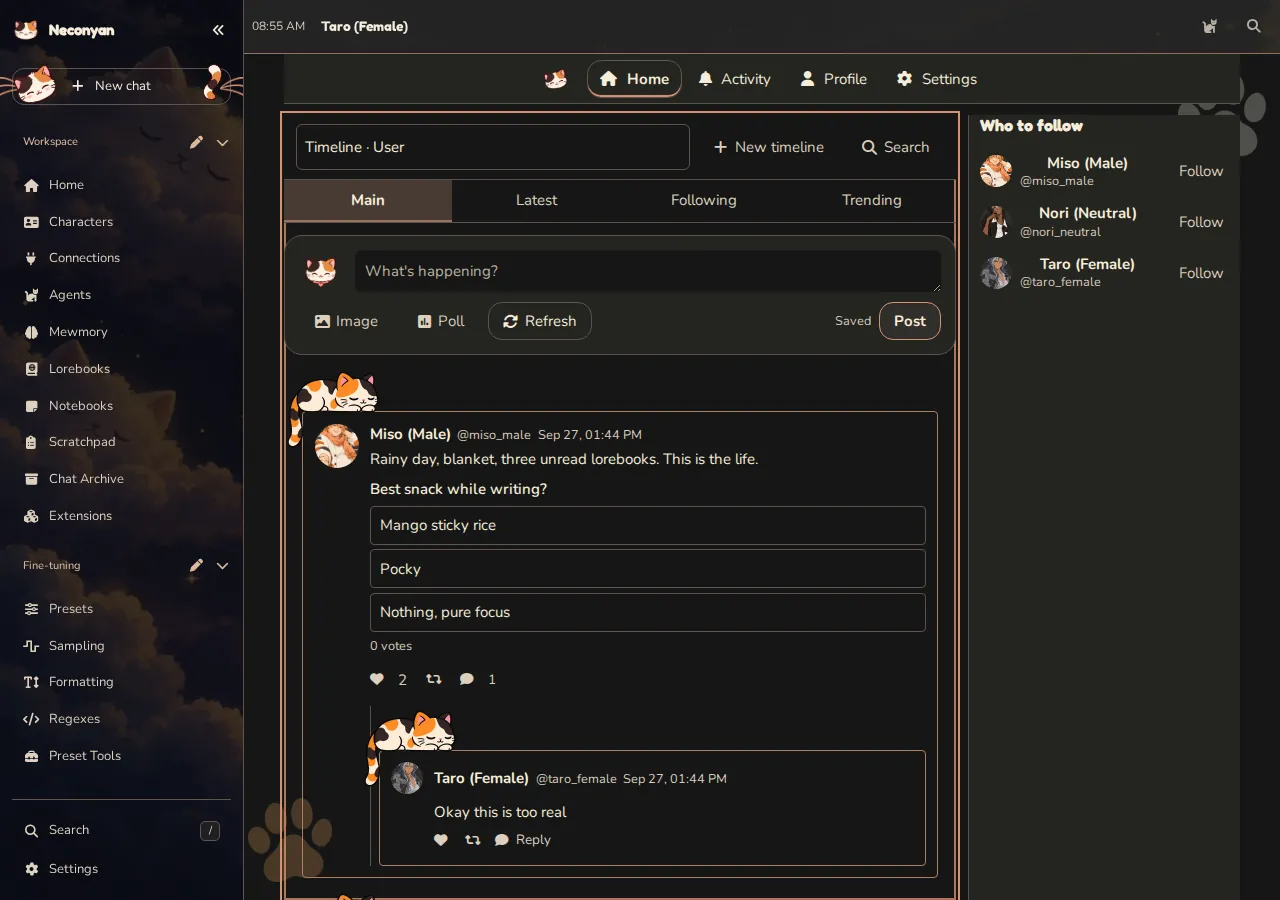
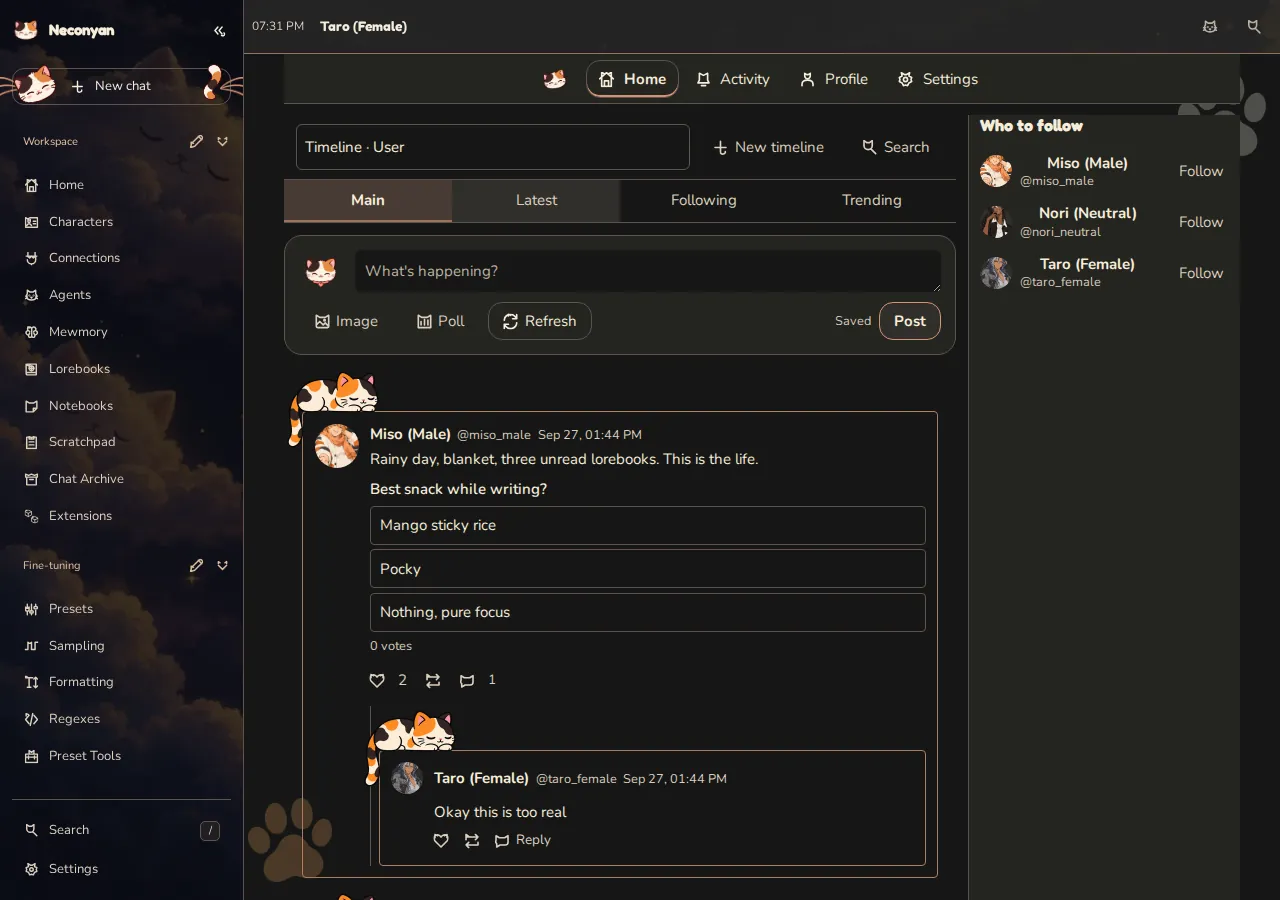
docs: refresh screenshots and guides for the 1.5.3 candidate

diff --git a/docs/helpers/agents.md b/docs/helpers/agents.md
@@ -8,6 +8,20 @@ quote: "Try a helper on one reply before letting it run automatically. A small a
 
 Agents do recurring jobs around a reply: add instructions, rewrite prose or keep a tracker. A **Companion** writes a separate note without replacing the character's reply.
 
+=== "Computer"
+
+    <figure class="screenshot" markdown>
+    [![Agents on desktop with Proofreader switched on](../assets/images/screenshots/desktop-agents.webp)](../assets/images/screenshots/desktop-agents.webp)
+    <figcaption>Start with one helper and check its Quick settings.</figcaption>
+    </figure>
+
+=== "Phone"
+
+    <figure class="screenshot screenshot--phone" markdown>
+    [![Agents on a phone with Proofreader switched on](../assets/images/screenshots/phone-agents.webp)](../assets/images/screenshots/phone-agents.webp)
+    <figcaption>Apply to reply runs the selected helper on an existing reply.</figcaption>
+    </figure>
+
 ## Start with one helper
 
 1. Open **Agents** and choose a helper. **Help me choose** recommends some from a few questions; **Browse library** has more.
@@ -18,6 +32,8 @@ Agents do recurring jobs around a reply: add instructions, rewrite prose or keep
 **Help me choose** makes no model request and changes nothing until you approve its picks. **Undo** switches those picks off; any library additions stay installed.
 
 Use **Manage agents** to filter by type, timing or enabled state. **Connections & defaults** holds shared settings. **More actions** on a card includes Export and Delete.
+
+The page remembers your selected view and folded categories when you return, so reopening Agents doesn't reset the list you were using.
 
 **Save changes** applies Quick settings. **Open full editor** saves them before opening the complete editor. When editing several selected Agents, untouched fields stay as they were.
 
@@ -49,6 +65,28 @@ Continuity Corrector starts with twelve recent messages and can use active lore,
 
 **Keep the original when an Agent refuses** starts on under **Connections & defaults → Context & notifications**. A helper's refusal doesn't replace your reply. If the main reply is itself a refusal, after-reply helpers are skipped.
 
+## See Proofreader's changes
+
+Find **Proofreader** in **Manage agents**, check its **Quick settings**, then switch it on with **Agents On**. It runs after a reply. **Apply to reply** on its card lets you try it on an existing reply first.
+
+Open **Agent changes** on the edited message to compare the removed and added text. **Undo** restores the previous text; **Redo** reapplies the edit. I would read the comparison before continuing the scene.
+
+=== "Computer"
+
+    <figure class="screenshot" markdown>
+    [![Proofreader's desktop change history with removed and added prose](../assets/images/screenshots/desktop-proofreader.webp)](../assets/images/screenshots/desktop-proofreader.webp)
+    <figcaption>The change history keeps the original beside the edit.</figcaption>
+    </figure>
+
+=== "Phone"
+
+    <figure class="screenshot screenshot--phone" markdown>
+    [![Proofreader's phone change history with Undo and Redo](../assets/images/screenshots/phone-proofreader.webp)](../assets/images/screenshots/phone-proofreader.webp)
+    <figcaption>Check the edit and undo it from the same window.</figcaption>
+    </figure>
+
+This staged example uses a fixed sample response through the real Agent workflow, including working Undo and Redo. Your connected model writes the edit in normal use; each pass can cost another request. The example shortens repeated gestures and corrects 'Its' and 'should of' without changing what happens in the scene.
+
 ## Short notes before a reply
 
 These also arrive switched off. Each makes a request before the main reply and adds a short instruction note.
@@ -72,6 +110,14 @@ Start with one. Several helpers doing the same job can add cost without improvin
 - **Chatroom** gives the scene a reacting audience. **Send reply** asks that audience to answer without adding your line to the main chat. Poll choices fill its reply box; they don't send themselves.
 
 Companion notes appear in the **Companion panel**. Each usually needs its own request. Their estimates are model-written observations, not fixed game rules.
+
+## Give Plot Compass a direction
+
+**Plot Compass** is a Companion that proposes possible developments and a next move. It keeps planning notes instead of writing the next story reply, and feeds its latest note into future replies by default.
+
+Its **Plot Objectives** have separate **Global**, **This character card** (or **This group**) and **This chat only** fields. Enabled objectives add together; untick one to stop using it without deleting the text. Empty fields add nothing. Press **Save and run** to save the objectives and request a fresh note, or save the Agent when editing them in its full editor.
+
+An objective is a desired direction, not a guaranteed ending. You can ask for a slow investigation without deciding every choice the characters will make.
 
 ## Instructions or extra requests?
 
@@ -119,6 +165,8 @@ Sharing latest notes is different from waiting: it reads completed notes already
 Open the **Companion panel** from its floating or top-bar button. **Search companions and notes** filters the view without running anything. **More tools → Companion activity** shows what ran.
 
 Completed notes appear as each helper finishes. **Live reply** marks a preview; editing, rerunning and sending it to a lorebook wait until it is saved. The model label describes the completed request, not your current selection.
+
+In a popped-out Companion window, tap its header to fold or unfold the note. Dragging the header moves the window instead.
 
 **Keep in history** controls future context. **Where kept notes go** chooses the newest reply, each note's own reply or one labelled block. Hiding a note on screen doesn't necessarily remove it from future prompts.
 

diff --git a/README.md b/README.md
@@ -6,7 +6,7 @@ I want you to get a reply before you need to understand every setting. The guide
 
 Miso, Taro and Nori explain things in their own voices. You can choose each guide’s male, female or neutral appearance independently. Their dialogue is written documentation; reading it doesn’t call a model.
 
-The site includes 54 pages, a reference for 201 registered macros, eighteen real demonstration screenshots and a downloadable extension starter. The practical guides cover **Neconyan 1.5.2**, [published on 8 November 2026](https://github.com/platberlitz/Neconyan/releases/tag/v1.5.2). They were reviewed against source `e0ed8b95` on the same day; the release commit `5450796a` differs from that source only in native build and download tooling, tests and the changelog. If your installed version is 1.5.1 or older, some options here may be missing. This edition adds native Structured Prefill, Scratchpad attachments and preset edits, shared Catelier writing and portrait settings with CCv3 cards, Conversation games, opt-in device notifications and a readable startup failure screen. The release also keeps a resumed Roleplay reply below the last saved message after a reload, and stops the chat blanking as it opens. The Scratchpad header now wraps on narrow screens, and the Custom CSS assistant is instructed to preserve your chosen shell, palette, wallpaper, fonts and cat visibility unless your request changes them. The four Scratchpad and Catelier screenshots were recaptured from the earlier 1.5.2 staging candidate at `d52b7966` on 8 November 2026; the other fourteen retain their earlier capture provenance. The macro catalogue retains its reviewed 7 October snapshot. The Scene Note starter and extension styling guide now carry the accent button guidance; the other extension examples are unchanged from their reviewed 7 October snapshots. The macro guides explain which replies are still built on the server and which macros those refuse.
+The site includes 54 pages, a reference for 201 registered macros, twenty-two real demonstration screenshots and a downloadable extension starter. I've reviewed the practical guides against the **Neconyan 1.5.3 candidate**, source `ca255d77`, on 9 November 2026. It is not published yet; [1.5.2 remains the latest release](https://github.com/platberlitz/Neconyan/releases/tag/v1.5.2). This edition covers Scratchpad reply versions, prefills and HTML/CSS previews, Plot Compass objectives, separate persona note libraries and background restoration. Every workspace screenshot is refreshed, with new Agents and staged Proofreader examples. The macro catalogue retains its reviewed 7 October snapshot. The Scene Note starter and extension styling guide carry the accent button guidance; the other extension examples retain their reviewed 7 October snapshots.
 
 ## Preview locally
 
@@ -43,7 +43,7 @@ Avoid repeated 'same X' phrasing and three-item lists written for rhythm. Keep a
 
 Use demonstration data for screenshots. Desktop captures are 1280×900 and phone captures are 393×852. Keep verification captures in `screenshots/`; that directory is ignored. Images published in the handbook belong in `docs/assets/images/screenshots/`.
 
-The screenshots were last refreshed on 8 November 2026, when the Scratchpad and Catelier pairs were recaptured from the earlier 1.5.2 staging candidate at `d52b7966`. The other fourteen images retain their 30 October and 5 November captures. When replacing them, record the application commit, capture date and browser setup in [ASSETS.md](ASSETS.md), then check the affected guides and screenshot zoom at both widths.
+All twenty-two screenshots were refreshed on 9 November 2026 from the 1.5.3 candidate at `ca255d77`. The Proofreader example uses a fixed sample response through the real Agent workflow, with edit, Undo and Redo checked at both widths. Capture provenance and browser settings are in [ASSETS.md](ASSETS.md). When replacing screenshots, update that record and check the affected guides and screenshot zoom at both widths.
 
 ## Update the macro reference
 

diff --git a/ASSETS.md b/ASSETS.md
@@ -4,13 +4,13 @@ The bundled artwork was copied from [Neconyan at 6e0269d0](https://github.com/pl
 
 ## Screenshots
 
-The fifteen files published before 5 November 2026 were recaptured on 30 October 2026 from the running application with disposable demonstration data. They replace the 1.3.0 captures and the 1.3.7 Simple Mode capture. Home, Roleplay, Conversation, Meower, Story Mode, Notebooks and Scratchpad each have a desktop and phone image; `desktop-simple.webp` shows the shorter Simple Mode sidebar and composer. The original Catelier desktop and phone images and `phone-simple.webp` arrived with the 5 November 2026 handbook simplification, bringing the set to eighteen.
+All twenty-two screenshots were captured on 9 November 2026 from the running [Neconyan 1.5.3 candidate at ca255d77](https://github.com/platberlitz/Neconyan/tree/ca255d77), using disposable demonstration data. Home, Roleplay, Catelier, Simple Mode, Conversation, Meower, Story Mode, Notebooks, Scratchpad, Agents and Proofreader each have a desktop and phone image.
 
-The original captures use [Neconyan at a4f53894](https://github.com/platberlitz/Neconyan/tree/a4f53894). Its application interface matches the [1.4.0 release at 5f9229c4](https://github.com/platberlitz/Neconyan/tree/5f9229c4); the later commit only changes the next staging version, its test expectations and the handover record. The captures show the Calico Dark theme, bundled assistants and staged chats, posts, notes and a Scratchpad discussion. No personal account data was used, and capture made no model requests.
+The captures show Calico Dark, bundled assistants and staged chats, posts, notes, a character dossier and a Scratchpad discussion. No personal account data was used. The Proofreader example runs the real Agent workflow with one intercepted provider request returning a fixed sample response; its edit, Undo and Redo were checked at both widths. It isn't a live model demonstration. No external model requests were made.
 
-On 8 November 2026, `desktop-scratchpad.webp`, `phone-scratchpad.webp`, `desktop-catelier.webp` and `phone-catelier.webp` were recaptured from the [1.5.2 staging candidate at d52b7966](https://github.com/platberlitz/Neconyan/tree/d52b7966). The Scratchpad pair shows the new **+** message options and an attached file in the composer. The Catelier pair shows the shared **Writing instructions**. The other fourteen images retain the 30 October and 5 November provenance above.
+These replace the eighteen images previously captured on 30 October, 5 November and 8 November, and add the four Agents and Proofreader images.
 
-Playwright captured Chromium at 1280×900 for desktop and 393×852 with touch emulation for phone, at a pixel ratio of 1. These are browser viewport captures, not physical-phone or Safari verification. The screenshots were converted to WebP at quality 90 without resizing or compositing interface elements.
+Playwright captured Chromium at 1280×900 for desktop with a pixel ratio of 1, and 393×852 with touch emulation for phone at a pixel ratio of 1.5. These are browser viewport captures, not physical-phone or Safari verification. The screenshots were converted to WebP at quality 80 without resizing or compositing interface elements.
 
 ## Assistant artwork
 

diff --git a/docs/help/about.md b/docs/help/about.md
@@ -10,7 +10,7 @@ This is the official Neconyan handbook, built with [Material for MkDocs](https:/
 
 ## Version and scope
 
-The practical guides cover **Neconyan 1.5.2**, [published on 8 November 2026](https://github.com/platberlitz/Neconyan/releases/tag/v1.5.2). They were reviewed against source **e0ed8b95** on the same day; the release commit **5450796a** differs from that source only in native build and download tooling, tests and the changelog. If your installed version is 1.5.1 or older, some options here may be missing. This edition adds native Structured Prefill, Scratchpad attachments and preset edits, shared Catelier writing and portrait settings with CCv3 cards, Conversation games, opt-in device notifications and a readable startup failure screen. The release also keeps a resumed Roleplay reply below the last saved message after a reload, and stops the chat blanking as it opens. The Scratchpad header now wraps on narrow screens, and the Custom CSS assistant is instructed to preserve your chosen shell, palette, wallpaper, fonts and cat visibility unless your request changes them.
+I've reviewed these guides against the **Neconyan 1.5.3 candidate**, source **ca255d77**, on 9 November 2026. This version is not published yet; [1.5.2 remains the latest release](https://github.com/platberlitz/Neconyan/releases/tag/v1.5.2). Some controls described here won't appear until you update. This edition covers Scratchpad reply versions, prefills and HTML/CSS previews, Plot Compass objectives, separate persona note libraries and background restoration. It also refreshes every workspace screenshot and adds Agents and a staged Proofreader demonstration.
 
 The macro catalogue retains its reviewed 7 October snapshot. The Scene Note starter and extension styling guide now carry the accent button guidance; the other extension examples are unchanged from their reviewed 7 October snapshots. The macro guides explain which replies are still built on the server and which macros those refuse. The newer Agent-only placeholders are documented separately and don't change the registered macro count.
 
@@ -18,7 +18,7 @@ The practical guides focus on common tasks and link to longer references when yo
 
 ## Screenshots and artwork
 
-The workspace screenshots use demonstration content and the bundled assistants, not private chats. Some were captured from earlier reviewed builds, so labels and spacing may differ from your installed version.
+All twenty-two workspace screenshots were captured from the 1.5.3 candidate on 9 November, using demonstration content and the bundled assistants, not private chats. The Proofreader example uses a fixed sample response through the real edit-history workflow; it isn't a live model conversation.
 
 Miso, Taro and Nori use Neconyan's existing assistant artwork, with male, female and neutral variants. Their handbook dialogue is authored guidance, not a live model conversation. Gender preferences stay in the browser when storage is available.
 

diff --git a/docs/helpers/scratchpad.md b/docs/helpers/scratchpad.md
@@ -19,7 +19,7 @@ Scratchpad is a side conversation for ideas, continuity checks and proposed edit
 
     <figure class="screenshot screenshot--phone" markdown>
     [![Scratchpad on a phone with a demonstration discussion](../assets/images/screenshots/phone-scratchpad.webp)](../assets/images/screenshots/phone-scratchpad.webp)
-    <figcaption>Back to chat returns to the story.</figcaption>
+    <figcaption>A round table keeps each assistant's reply separate.</figcaption>
     </figure>
 
 ## Open a discussion
@@ -75,6 +75,18 @@ One search serves the whole round table. Replies cite numbered results and keep 
 Turn on **Round table** and select up to three assistants. Each answers with its own connection and reply limit, without seeing the others' answers from that round. Ask a follow-up to compare their ideas.
 
 **Random** asks just one selected assistant per message. Turn it off to ask everyone again. Each answer can be a separate paid request; **Stop all** stops the round and failed participants can be retried individually.
+
+## Keep alternative replies
+
+**Try again** saves a new version of that assistant's latest reply instead of discarding the previous one. Use the arrows and version counter below the reply to choose an alternative. A reply can keep up to 50 versions; other round-table answers stay as they were.
+
+Under **Context → Reply prefills**, **Reply prefill** starts the assistant's answer with text you supply. It applies to every assistant in the session, including new reply versions, and needs a connection that supports prefills. Leave it empty for normal replies. **Kimi K3 / K3.1 partial prefill** takes precedence for those models; an unclosed `<think>` seeds thinking only and isn't added to the saved reply.
+
+## Preview HTML and CSS
+
+Choose **Preview HTML/CSS** beside a code block to see the HTML with the CSS blocks in that reply. The same button appears in a supported proposed-text review. CSS without HTML is shown on sample content.
+
+This is a static preview: scripts, external resources and links are blocked, macros stay as written, and nothing is saved. Close it to continue editing or review and save the proposed change separately.
 
 ## Review a proposed change
 

diff --git a/docs/workspace/roleplay.md b/docs/workspace/roleplay.md
@@ -81,6 +81,7 @@ Start with **Settings → Chat & Writing**:
 
 - **Chat & messages → Chat window** controls chat links and **Reopen your last chat**. Both start off. Links work on your installation and account; they aren't public copies.
 - **Chat & messages → Sending** includes whether the keyboard opens automatically.
+- **Chat & messages → Messages → Block external media** sets the default for loading images, audio and video from other websites. The character or group's external-media dialog also has **Block external media by default**. **Always allowed** and **Always forbidden** override that default for the selected character or group; outside sites can see your IP address when their media loads.
 - **Replies → Where replies are written** chooses **In the browser** or **On the server**. See [leaving the page](#when-you-leave-the-page) before changing it.
 
 Automatic chat names use a model request after a date-named chat has enough messages and you've sent one. The default is six messages, including the greeting. You can change the threshold or turn naming off. Assistant and temporary chats, and Conversation mode, are excluded.
@@ -152,7 +153,7 @@ Put stable character details in the card, world facts in [lorebooks](lorebooks.m
 Author's Note adds a short instruction to the prompt. Its tabs choose where that instruction belongs:
 
 - **This chat:** the current chat's note. Frequency `1` sends it every turn; `0` stops regular insertion. Lore scanning is a separate setting.
-- **Character:** private notes for this character. Tick the ones to use and choose Top, Replace or Bottom. These can be separate for each persona.
+- **Character:** private notes for this character. Tick the ones to use and choose Top, Replace or Bottom. **Separate notes for each persona** gives each persona its own note library, not just separate ticks. The visible list and edits follow the equipped persona, keeping another persona's notes out of this list and prompt.
 - **Persona:** one active private profile that follows the persona across characters.
 - **New chats:** defaults for chats you create later.
 

diff --git a/docs/workspace/conversation.md b/docs/workspace/conversation.md
@@ -94,7 +94,7 @@ While a Conversation chat is open, **Settings → Appearance → Avatar & Chat S
 
 Each picture can be **Send the image**, **Use a description** or **Show only**, applied with **Save choice**. A typed description can be up to 16 KiB. The account and branch switches override the individual choices in their scope.
 
-Older messages can combine a picture's description with extracted file text in one saved field. When those parts can't be told apart reliably, the message needs **Use this text** or **Leave it out** before Show only will apply. Omitting also omits the extracted file text in that field. A reply that quotes another message can need the same choice when your image settings require the quote to be reviewed; **Leave it out** sends that reply without the quote. The displayed message, your written text and saved memories stay as they are.
+Older messages can combine a picture's description with extracted file text in one saved field. When those parts can't be told apart reliably, the message needs **Use this text** or **Leave it out** before Show only will apply. Omitting also omits the extracted file text in that field. A reply quoting a message with an image can need the same choice; **Leave it out** sends that reply without the quote. Ordinary text-only quotations never require image review. The displayed message, your written text and saved memories stay as they are.
 
 The copy preparation, batch and **Change history** controls belong to the Roleplay review; Conversation pictures are reviewed message by message. [Included tools](../helpers/tools.md#images-in-replies) covers the shared image-input choices.
 

diff --git a/docs/workspace/appearance.md b/docs/workspace/appearance.md
@@ -48,6 +48,8 @@ There are 34 coats and 21 ready-made pairs. 1.3.0 added Birman, Snowshoe, Cinnam
 
 To change the picture behind the app, open **Appearance → Background**. The bundled dark backgrounds include **Neconyan - Velvet Moon**, **Neconyan - Rainy Lantern Loft**, **Neconyan - Mosslight Grotto**, **Neconyan - Indigo Tide**, **Neconyan - Ember Hearth** and **Neconyan - Starlit Snow**.
 
+The library also includes backgrounds matched to the bundled themes. Select several pictures and choose **Delete selected** to remove them together. **Restore defaults** brings back missing bundled backgrounds. **Background Visibility** under **Appearance → Interface** lets the wallpaper show through the Home and chat surfaces, including on phones.
+
 ## Make text comfortable to read
 
 Start with a bundled light or dark theme and a readable font size. **Settings → Appearance → Google Font** has a separate picker for **Body text**, **Headings**, **Chat messages** and **Code**. Each starts at **Default** and lists a few suggested fonts; **Custom Google Font…** accepts any Google Fonts name, confirmed with the tick or Enter. Headings follow the body font until you choose one, and chat messages do the same. **Reset all fonts** puts them all back. A chosen font that isn't bundled is downloaded from Google Fonts, which is an external request, and a misspelt name shows a warning.
